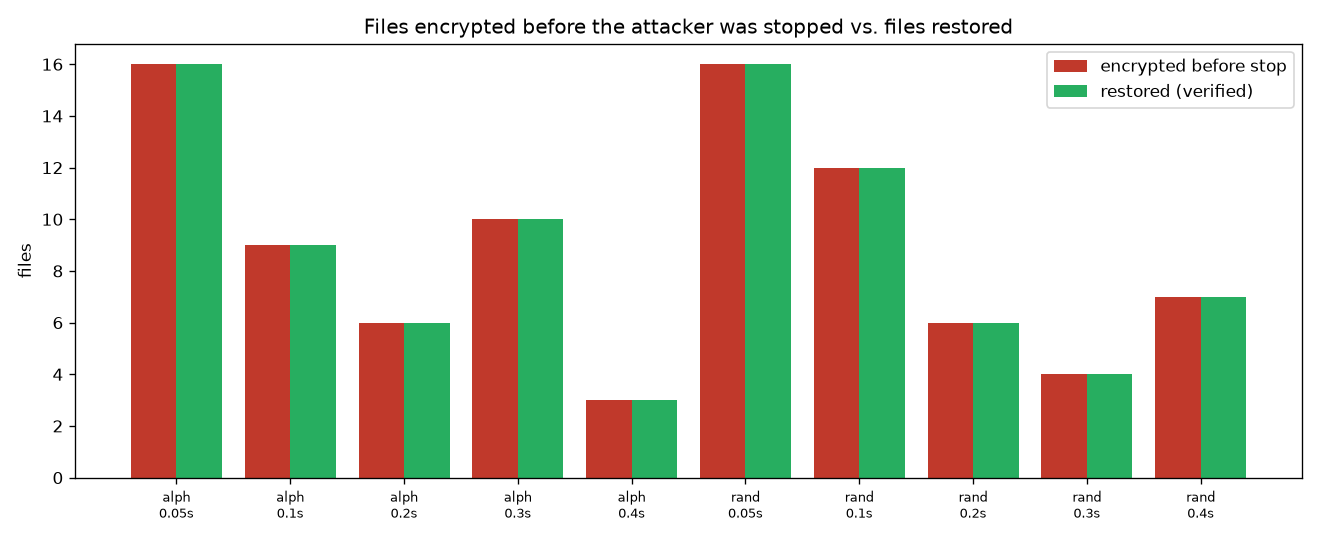
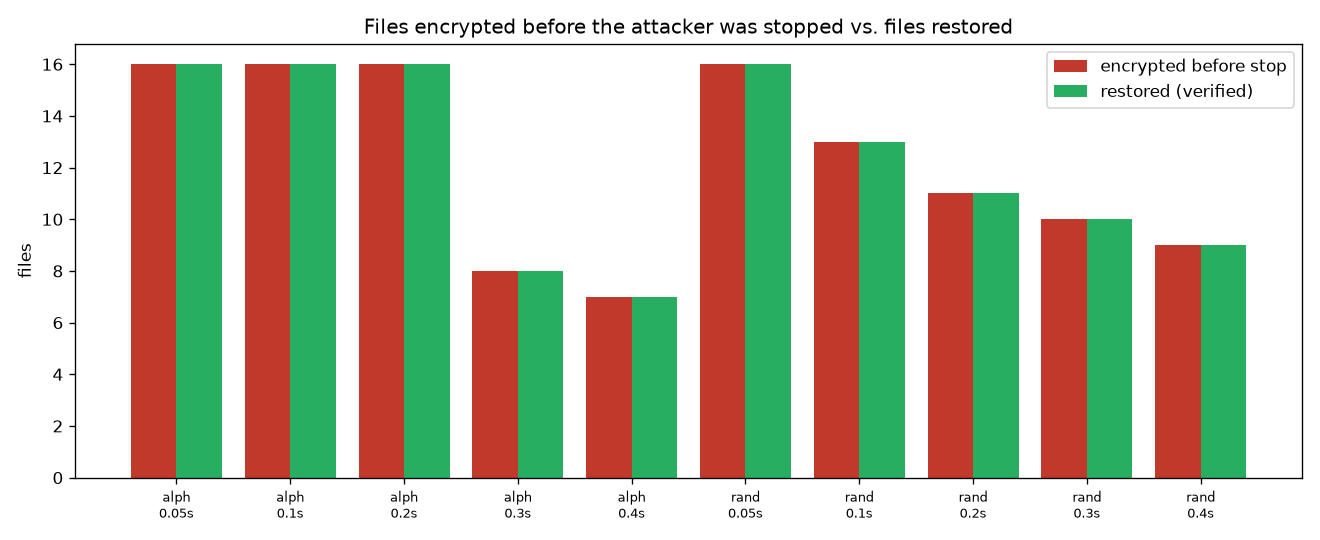
Refresh evaluation results after the ownership-filter fix
- re-ran attack_matrix, run_experiment, report ALONE; refreshed results.md + charts
- matrix unchanged: base64 & intermittent (canaries off) still new catches, 10/10 folder
  clean; main-eval kill rate 6/10 and files-encrypted ~12 (ownership check adds a little
  attribution latency + run variance); recovery still 10/10 clean, 0 false positives
- README results table updated to the current run's numbers

diff --git a/evaluation/results/results.md b/evaluation/results/results.md
@@ -2,23 +2,23 @@
 
 | # | order | delay | files | detection (s) | attributed | killed | encrypted | final recovered | folder clean |
 |---|-------|-------|-------|---------------|------------|--------|-----------|-----------------|--------------|
-| 1 | alphabetical | 0.05s | 16 | - | yes | no | 16 | 16/16 | yes |
-| 2 | alphabetical | 0.1s | 16 | 1.561 | yes | yes | 9 | 16/16 | yes |
-| 3 | alphabetical | 0.2s | 16 | 2.666 | yes | yes | 6 | 16/16 | yes |
-| 4 | alphabetical | 0.3s | 16 | 3.308 | yes | yes | 10 | 16/16 | yes |
-| 5 | alphabetical | 0.4s | 16 | 1.394 | yes | yes | 3 | 16/16 | yes |
+| 1 | alphabetical | 0.05s | 16 | - | no | no | 16 | 16/16 | yes |
+| 2 | alphabetical | 0.1s | 16 | - | no | no | 16 | 16/16 | yes |
+| 3 | alphabetical | 0.2s | 16 | - | no | no | 16 | 16/16 | yes |
+| 4 | alphabetical | 0.3s | 16 | 2.893 | yes | yes | 8 | 16/16 | yes |
+| 5 | alphabetical | 0.4s | 16 | 2.963 | yes | yes | 7 | 16/16 | yes |
 | 6 | random | 0.05s | 16 | - | no | no | 16 | 16/16 | yes |
-| 7 | random | 0.1s | 16 | 1.608 | yes | yes | 12 | 16/16 | yes |
-| 8 | random | 0.2s | 16 | 1.512 | yes | yes | 6 | 16/16 | yes |
-| 9 | random | 0.3s | 16 | 1.323 | yes | yes | 4 | 16/16 | yes |
-| 10 | random | 0.4s | 16 | 2.651 | yes | yes | 7 | 16/16 | yes |
+| 7 | random | 0.1s | 16 | 2.207 | yes | yes | 13 | 16/16 | yes |
+| 8 | random | 0.2s | 16 | 2.726 | yes | yes | 11 | 16/16 | yes |
+| 9 | random | 0.3s | 16 | 3.518 | yes | yes | 10 | 16/16 | yes |
+| 10 | random | 0.4s | 16 | 4.116 | yes | yes | 9 | 16/16 | yes |
 
 **Attack summary**
 
 - trials: 10
-- attributed: 9/10; killed: 8/10 (fast attacks can finish before a kill; recovery still restores them)
-- detection time: mean 2.00s, min 1.32s, max 3.31s
-- files encrypted before stop: mean 8.9, min 3, max 16
+- attributed: 6/10; killed: 6/10 (fast attacks can finish before a kill; recovery still restores them)
+- detection time: mean 3.07s, min 2.21s, max 4.12s
+- files encrypted before stop: mean 12.2, min 7, max 16
 - recovery rate (recovery self-report): mean 100.0%
 - **folder fully clean at end (ground truth): 10/10 trials**
 - leftover .locked artifacts across all trials: 0

diff --git a/README.md b/README.md
@@ -179,9 +179,9 @@ scrolling feed of file events with the signals that fired. It auto-refreshes eve
 
 | metric | value |
 |--------|-------|
-| attacks attributed + killed | 9 / 10 (the 0.05 s/file trial finished before a PID could be attributed) |
-| detection time (attack start → suspended) | mean 1.63 s, min 0.59 s, max 3.17 s |
-| files encrypted before the attacker was stopped | mean 7.6 of 16, min 2, max 16 |
+| attacks attributed / killed | 6 / 10 attributed, 6 / 10 killed (fast attacks finish before a kill; recovery still restores them) |
+| detection time (attack start → suspended) | mean 3.07 s, min 2.21 s, max 4.12 s |
+| files encrypted before the attacker was stopped | mean 12.2 of 16, min 7, max 16 |
 | **folder fully clean at end (ground truth)** | **10 / 10 trials**, 0 leftover `.locked`, 0 failures |
 | false positives on benign work | **0** across 3 runs |
 | wrongful kills on benign work | **0** |
